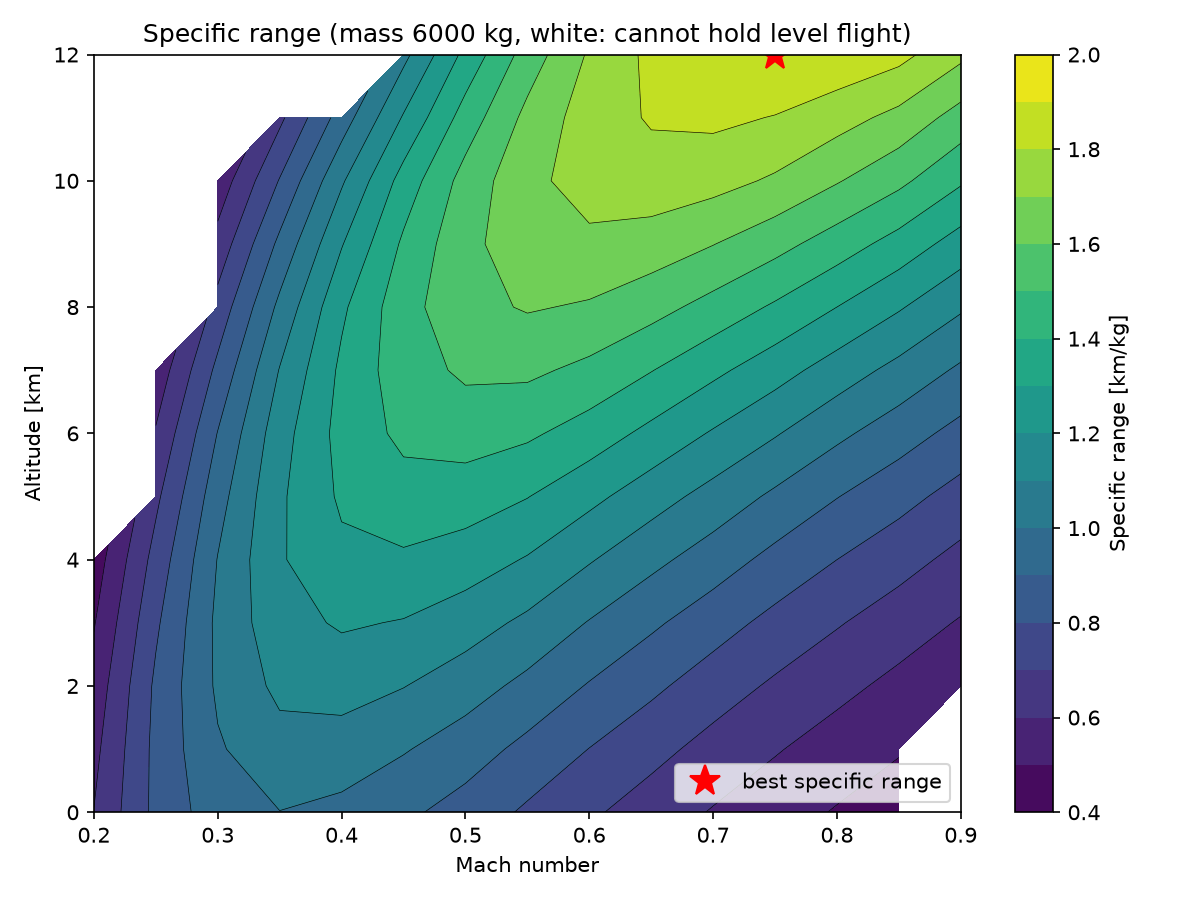
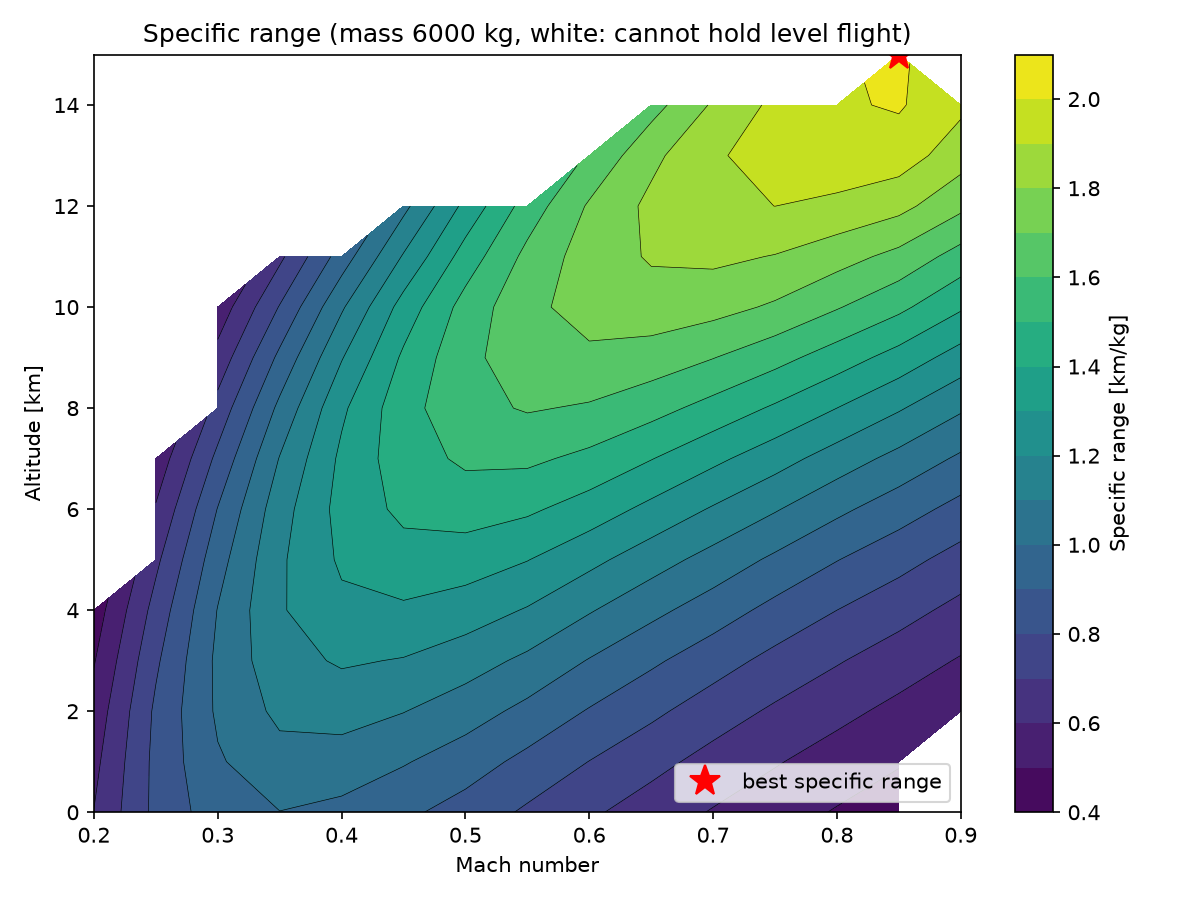
Extend thrust deck to 15 km, add climb performance and ceilings

diff --git a/scripts/ceiling.py b/scripts/ceiling.py
@@ -1,0 +1,103 @@
+"""
+Climb performance and ceilings at max dry thrust.
+
+  Rate of climb (steady, small flight-path angle): RC = (T - D) V / W
+  Service ceiling  : max RC = 0.5 m/s (100 ft/min)
+  Absolute ceiling : max RC = 0
+
+    python scripts/ceiling.py
+
+Output: results/ceiling.png
+"""
+
+from pathlib import Path
+
+import matplotlib
+matplotlib.use("Agg")
+import matplotlib.pyplot as plt
+import numpy as np
+
+from jet_uav_sim.aero import AeroModel
+from jet_uav_sim.airframe import UAV
+from jet_uav_sim.atmosphere import G0, isa
+from jet_uav_sim.thrust_deck import ThrustDeck
+from jet_uav_sim.trim import DECK_PATH
+
+ROOT = Path(__file__).resolve().parents[1]
+RESULTS = ROOT / "results"
+RESULTS.mkdir(exist_ok=True)
+
+aero = AeroModel()
+deck = ThrustDeck.from_csv(DECK_PATH)
+S = UAV.wing.area
+
+altitudes = np.arange(0.0, 20001.0, 250.0)
+machs = np.linspace(0.2, 0.9, 141)
+masses = {"MTOW": UAV.mass.mtow, "half fuel": UAV.mass.mtow - 0.5 * UAV.mass.fuel_max}
+
+
+H_TOP = 15000.0                      # top of the thrust deck
+P_TOP = float(isa(H_TOP)[1])
+
+
+def thrust_max(h, M):
+    """Max dry thrust; above the deck it is scaled with ambient pressure.
+
+    In the isothermal layer (11-20 km) the inlet temperature at a given Mach is
+    constant, so the engine runs at the same corrected point: F/delta is constant
+    and thrust scales exactly with pressure.
+    """
+    if h <= H_TOP:
+        return deck.thrust(h, M, 1.0)
+    return deck.thrust(H_TOP, M, 1.0) * float(isa(h)[1]) / P_TOP
+
+def max_climb(h, mass):
+    """Best rate of climb [m/s] over Mach at altitude h, and the Mach for it."""
+    _, _, rho, a = isa(h)
+    rho, a = float(rho), float(a)
+    best_rc, best_m = -np.inf, np.nan
+    for M in machs:
+        V = M * a
+        q_bar = 0.5 * rho * V**2
+        cl = mass * G0 / (q_bar * S)
+        if cl > aero.cl_max:
+            continue
+        D = q_bar * S * float(aero.cd(cl, M))
+        rc = (thrust_max(h, M) - D) * V / (mass * G0)
+        if rc > best_rc:
+            best_rc, best_m = rc, M
+    return best_rc, best_m
+
+
+def ceiling(h, rc, level):
+    """Altitude where rc falls to level (linear interpolation), None if not reached."""
+    below = np.where(rc < level)[0]
+    if len(below) == 0:
+        return None
+    k = below[0]
+    return h[k - 1] + (level - rc[k - 1]) * (h[k] - h[k - 1]) / (rc[k] - rc[k - 1])
+
+
+fig, ax = plt.subplots(figsize=(8, 6))
+for label, mass in masses.items():
+    rc, mach_best = np.array([max_climb(h, mass) for h in altitudes]).T
+    crz = ceiling(altitudes, rc, 1.5)
+    svc, absl = ceiling(altitudes, rc, 0.5), ceiling(altitudes, rc, 0.0)
+    print(f"{label} ({mass:.0f} kg):")
+    print(f"  sea-level max rate of climb {rc[0]:.1f} m/s at Mach {mach_best[0]:.2f}")
+    print(f"  cruise ceiling   {crz:.0f} m" if crz else "  cruise ceiling   above 20 km")
+    print(f"  service ceiling  {svc:.0f} m" if svc else "  service ceiling  above 20 km")
+    print(f"  absolute ceiling {absl:.0f} m" if absl else "  absolute ceiling above 20 km")
+    ax.plot(rc, altitudes / 1000, lw=2, label=label)
+    if svc:
+        ax.plot(0.5, svc / 1000, "o", color=ax.lines[-1].get_color())
+ax.axvline(0.5, color="k", ls=":", lw=1, label="0.5 m/s (service ceiling)")
+ax.set_xlabel("Max rate of climb [m/s]")
+ax.set_ylabel("Altitude [km]")
+ax.set_title("Climb performance at max dry thrust")
+ax.set_xlim(left=0)
+ax.grid(alpha=0.3)
+ax.legend()
+fig.tight_layout()
+fig.savefig(RESULTS / "ceiling.png", dpi=150)
+print(f"Saved {RESULTS / 'ceiling.png'}")

diff --git a/scripts/build_thrust_deck.py b/scripts/build_thrust_deck.py
@@ -38,7 +38,8 @@ if args.quick:
     machs = np.array([0.0, 0.45, 0.9])
     throttles = np.array([0.0, 0.5, 1.0])
 else:
-    altitudes = np.arange(0.0, 12001.0, 2000.0)
+    altitudes = np.array([0.0, 2000.0, 4000.0, 6000.0, 8000.0, 10000.0,
+                          12000.0, 13500.0, 15000.0])
     machs = np.round(np.arange(0.0, 0.91, 0.15), 2)
     throttles = np.round(np.linspace(0.0, 1.0, 6), 2)
 

diff --git a/scripts/plot_trim_map.py b/scripts/plot_trim_map.py
@@ -25,7 +25,7 @@ RESULTS = ROOT / "results"
 RESULTS.mkdir(exist_ok=True)
 
 MASS = 6000.0
-altitudes = np.arange(0.0, 12001.0, 1000.0)
+altitudes = np.arange(0.0, 15001.0, 1000.0)
 machs = np.round(np.arange(0.20, 0.901, 0.05), 2)
 
 aero = AeroModel()

diff --git a/README.md b/README.md
@@ -35,9 +35,22 @@ A small low-bypass turbofan (BPR 0.9, OPR 21, 28.7 kN sea-level static, dry) is 
 ![Thrust lapse](docs/figures/thrust_deck_max_dry.png)
 
 ### Airframe and trim
-Conceptual-design methods give CLα = 3.3 /rad, CD0 = 0.014 and (L/D)max = 12.8; the Korn equation puts drag divergence at Mach 0.94 (t/c 5 %, 33° quarter-chord sweep). Trimming engine and airframe together over the envelope shows the best specific range at **12 km, Mach 0.75 (1.90 km/kg)**: above Mach ~0.83, wave drag outweighs the time saved.
+Conceptual-design methods give CLα = 3.3 /rad, CD0 = 0.014 and (L/D)max = 12.8; the Korn equation puts drag divergence at Mach 0.94 (t/c 5 %, 33° quarter-chord sweep). Trimming engine and airframe together over the envelope shows specific range rising with altitude until thrust runs out: the best point, **15 km, Mach 0.85 (2.02 km/kg)**, sits at the MTOW service ceiling, as expected for a jet. Higher up, the same CL needs more speed, so the optimum Mach moves up with altitude until wave drag sets in.
 
 | Drag polars | Specific range over the envelope |
+
+### Ceilings
+Rate of climb at max dry thrust, RC = (T − D)·V / W, maximized over Mach at each altitude. Above the top of the deck (15 km) thrust is scaled with ambient pressure: in the isothermal layer the engine runs at a fixed corrected point, so F/δ is constant (checked on the deck: 12 → 15 km thrust ratio 0.62 vs. pressure ratio 0.623).
+
+| Mass | Cruise ceiling (1.5 m/s) | Service ceiling (0.5 m/s) | Absolute ceiling |
+|---|---|---|---|
+| MTOW, 6000 kg | 14 725 m | 15 035 m | 15 207 m |
+| Half fuel, 5100 kg | 15 723 m | 16 066 m | 16 237 m |
+
+Burning 900 kg of fuel raises the ceiling by 1 km, which is why jets step-climb.
+
+![Ceilings](docs/figures/ceiling.png)
+
 |---|---|
 | ![](docs/figures/aero_drag_polar.png) | ![](docs/figures/trim_map_specific_range.png) |
 
@@ -96,7 +109,7 @@ The Breguet difference is expected: Breguet freezes L/D and TSFC, the simulation
 - **Longitudinal only.** Lateral-directional aerodynamics and full 6-DoF are the next step.
 - **Engine lag is first-order.** The transient actually has a fast HP-spool rise and a slow LP-spool tail (95 % thrust at 1.35 s vs. 3τ = 3.1 s); a two-time-constant model would capture it.
 - **No FADEC T4 limiter in the transient:** T4 overshoots to 1760 K during acceleration (rating: 1650 K).
-- **Thrust deck ends at 12 km,** where the specific-range optimum lies; extending it would give the true optimum and the service ceiling.
+- **Missions cruise at 10 km,** well below the ~14.7 km cruise ceiling; cruising (and step-climbing) at the ceiling would add roughly 20–25 % range. The worn-engine deck still ends at 12 km, so the deterioration study is kept at 10 km for a like-for-like comparison.
 - **Conceptual aerodynamics:** the swept-wing Oswald factor (0.88) is optimistic; real values are 0.75–0.85.
 - **Fixed autopilot gains;** gain scheduling over the envelope is needed for a production design.
 - **Notional aircraft and illustrative wear pattern,** not data of any real aircraft or engine fleet.
